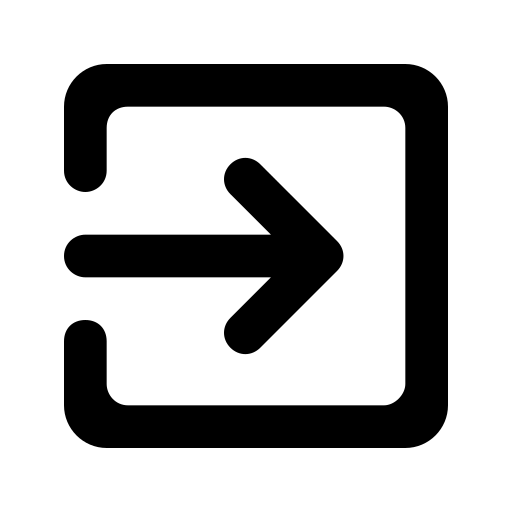
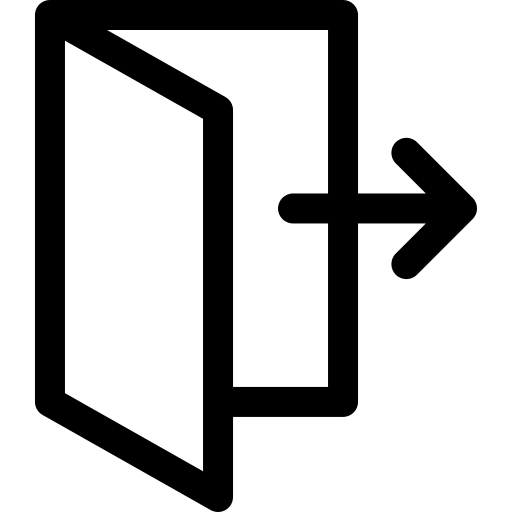
ok

diff --git a/src/pages/adm-home/index.scss b/src/pages/adm-home/index.scss
@@ -44,7 +44,7 @@
             transition: .1s;
 
             .a1 {
-                background-image: url(../../../public/assets/img/edit.png);
+                background-image: url(../../../public/assets/img/adicionar.png);
             }
 
             .a2 {
@@ -52,7 +52,7 @@
             }
 
             .a3 {
-                background-image: url(../../../public/assets/img/i-sair.png);
+                background-image: url(../../assets/img/i-exitB.png);
             }
 
             .a1,
@@ -69,6 +69,9 @@
 
             p {
                 font-size: 20px;
+                font-family: "fonte1";
+                font-weight: bolder;
+                color: black;
             }
         }
 

diff --git a/src/components/cabecalhoAdm/index.scss b/src/components/cabecalhoAdm/index.scss
@@ -29,7 +29,7 @@
         background-color: #EBEBEB;
 
         img{
-            height: 50px;
+            height: 40px;
             width: 50px;
 
             transition: .1s;
@@ -48,7 +48,7 @@
 
             img:nth-child(1){
                 height: 40px;
-                width: 45px;
+                width: 40px;
             }
         }
 

diff --git a/src/components/opcoes/index.scss b/src/components/opcoes/index.scss
@@ -57,6 +57,9 @@
 
         p {
             font-size: 20px;
+            font-family: "fonte1";
+            font-weight: bolder;
+            color: black;
         }
     }
 
